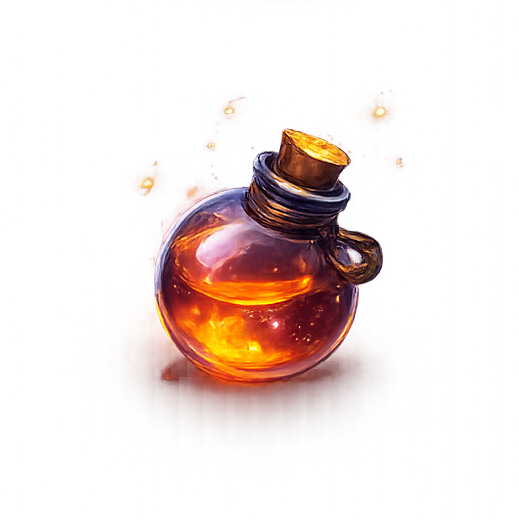
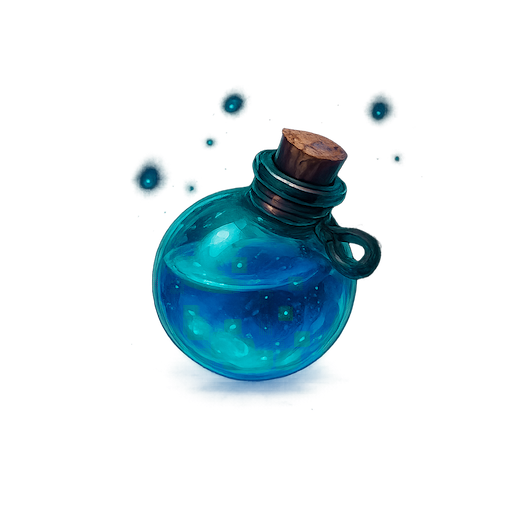
Rebalance artefact effects

diff --git a/src/utils/artefactEffects.test.ts b/src/utils/artefactEffects.test.ts
@@ -15,6 +15,7 @@ import {
   applyOutgoingDamageModifiers,
   applyOutgoingHealingModifiers,
   applyIncomingDamageModifiers,
+  getArmorGainMultiplier,
   getArtefactEffectDescription,
 } from './artefactEffects';
 import { initializeSoloGame } from './gameInitialization';
@@ -133,31 +134,67 @@ describe('artefactEffects', () => {
 
   describe('Tome effect - modifySegmentResultWithTome', () => {
     it('should not modify segment when Tome is not active', () => {
-      const segment = { segmentSize: 1, damage: 10, healing: 5, arcaneDust: 0, orderedCells: [], resolutionSteps: [] };
+      const segment = {
+        segmentSize: 1,
+        damage: 10,
+        healing: 5,
+        armor: 3,
+        arcaneDust: 0,
+        orderedCells: [],
+        resolutionSteps: [],
+      };
       const result = modifySegmentResultWithTome(segment, false);
       expect(result.damage).toBe(10);
       expect(result.healing).toBe(5);
+      expect(result.armor).toBe(3);
     });
 
     it('should multiply damage and healing by 10 for size-1 segments when Tome is active', () => {
-      const segment = { segmentSize: 1, damage: 10, healing: 5, arcaneDust: 0, orderedCells: [], resolutionSteps: [] };
+      const segment = {
+        segmentSize: 1,
+        damage: 10,
+        healing: 5,
+        armor: 4,
+        arcaneDust: 0,
+        orderedCells: [],
+        resolutionSteps: [],
+      };
       const result = modifySegmentResultWithTome(segment, true);
       expect(result.damage).toBe(100);
       expect(result.healing).toBe(50);
+      expect(result.armor).toBe(40);
     });
 
     it('should not modify segments larger than 1 even when Tome is active', () => {
-      const segment = { segmentSize: 2, damage: 10, healing: 5, arcaneDust: 0, orderedCells: [], resolutionSteps: [] };
+      const segment = {
+        segmentSize: 2,
+        damage: 10,
+        healing: 5,
+        armor: 2,
+        arcaneDust: 0,
+        orderedCells: [],
+        resolutionSteps: [],
+      };
       const result = modifySegmentResultWithTome(segment, true);
       expect(result.damage).toBe(10);
       expect(result.healing).toBe(5);
+      expect(result.armor).toBe(2);
     });
 
     it('should not modify size-3 segment when Tome is active', () => {
-      const segment = { segmentSize: 3, damage: 15, healing: 8, arcaneDust: 0, orderedCells: [], resolutionSteps: [] };
+      const segment = {
+        segmentSize: 3,
+        damage: 15,
+        healing: 8,
+        armor: 1,
+        arcaneDust: 0,
+        orderedCells: [],
+        resolutionSteps: [],
+      };
       const result = modifySegmentResultWithTome(segment, true);
       expect(result.damage).toBe(15);
       expect(result.healing).toBe(8);
+      expect(result.armor).toBe(1);
     });
   });
 
@@ -213,6 +250,38 @@ describe('artefactEffects', () => {
       const state = { ...initializeSoloGame(), activeArtefacts: ['potion'] as ArtefactId[] };
       expect(applyOutgoingHealingModifiers(5, 2, state)).toBe(5);
     });
+
+    it('should double healing when Rod is active', () => {
+      const state = { ...initializeSoloGame(), activeArtefacts: ['rod'] as ArtefactId[] };
+      expect(applyOutgoingHealingModifiers(5, 2, state)).toBe(10);
+    });
+  });
+
+  describe('getArmorGainMultiplier', () => {
+    it('should return 1 when no artefacts are active', () => {
+      const state = initializeSoloGame();
+      expect(getArmorGainMultiplier(2, state)).toBe(1);
+    });
+
+    it('should double armor when Potion is active', () => {
+      const state = { ...initializeSoloGame(), activeArtefacts: ['potion'] as ArtefactId[] };
+      expect(getArmorGainMultiplier(2, state)).toBe(2);
+    });
+
+    it('should apply Tome (10x) for size-1 segments', () => {
+      const state = { ...initializeSoloGame(), activeArtefacts: ['tome'] as ArtefactId[] };
+      expect(getArmorGainMultiplier(1, state)).toBe(10);
+    });
+
+    it('should stack Tome and Potion multipliers', () => {
+      const state = { ...initializeSoloGame(), activeArtefacts: ['tome', 'potion'] as ArtefactId[] };
+      expect(getArmorGainMultiplier(1, state)).toBe(20);
+    });
+
+    it('should include Rod healing bonus', () => {
+      const state = { ...initializeSoloGame(), activeArtefacts: ['rod'] as ArtefactId[] };
+      expect(getArmorGainMultiplier(2, state)).toBe(2);
+    });
   });
 
   describe('applyIncomingDamageModifiers - combined effects', () => {
@@ -256,12 +325,14 @@ describe('artefactEffects', () => {
       const desc = getArtefactEffectDescription('rod');
       expect(desc).toContain('damage taken');
       expect(desc).toContain('Rune Score');
+      expect(desc).toContain('healing');
     });
 
     it('should return description for Potion', () => {
       const desc = getArtefactEffectDescription('potion');
       expect(desc).toContain('Double');
       expect(desc).toContain('triple');
+      expect(desc).toContain('armor');
     });
 
     it('should return description for Robe', () => {
@@ -274,6 +345,7 @@ describe('artefactEffects', () => {
       const desc = getArtefactEffectDescription('tome');
       expect(desc).toContain('size 1');
       expect(desc).toContain('10×');
+      expect(desc).toContain('armor');
     });
   });
 });

diff --git a/src/utils/artefactEffects.ts b/src/utils/artefactEffects.ts
@@ -65,7 +65,7 @@ export function modifyDraftRarityWithRing(
  * Robe effect: Increase total picks by 1 during deck drafting
  */
 export function modifyDraftPicksWithRobe(basePicks: number, hasRobe: boolean): number {
-  return hasRobe ? basePicks + 1 : basePicks;
+  return hasRobe ? basePicks + 1 : basePicks; //TODO: This should let the pick an extra from the existing picks
 }
 
 /**
@@ -91,7 +91,7 @@ export function getDamageToScoreBonusWithRod(damage: number, hasRod: boolean): n
 }
 
 /**
- * Tome effect: Segments of size 1 deal 10× damage (rune score) and 10× healing
+ * Tome effect: Segments of size 1 deal 10× damage (rune score) and 10× healing and 10x armor
  */
 export function modifySegmentResultWithTome(
   segment: ResolvedSegment,
@@ -105,6 +105,7 @@ export function modifySegmentResultWithTome(
     ...segment,
     damage: segment.damage * 10,
     healing: segment.healing * 10,
+    armor: segment.armor * 10,
   };
 }
 
@@ -124,10 +125,10 @@ export function applyOutgoingDamageModifiers(
     damage = damage * 10;
   }
   
-  // Potion applies to final damage
-  if (hasArtefact(state, 'potion')) {
-    damage = damage * 2;
-  }
+  // // Potion applies to final damage
+  // if (hasArtefact(state, 'potion')) {
+  //   damage = damage * 2;
+  // }
   
   return damage;
 }
@@ -148,7 +149,19 @@ export function applyOutgoingHealingModifiers(
     healing = healing * 10;
   }
   
+  if (hasArtefact(state, 'rod')) {
+    healing = healing * 2;
+  }
   return healing;
+}
+
+/**
+ * Get the armor multiplier for resolved segments after artefact modifiers.
+ */
+export function getArmorGainMultiplier(segmentSize: number, state: GameState): number {
+  const healingMultiplier = applyOutgoingHealingModifiers(1, segmentSize, state);
+  const potionArmorMultiplier = 1;//hasArtefact(state, 'potion') ? 2 : 1;
+  return healingMultiplier * potionArmorMultiplier;
 }
 
 /**
@@ -161,14 +174,14 @@ export function applyIncomingDamageModifiers(
   state: GameState
 ): { damage: number; scoreBonus: number } {
   let damage = baseDamage;
-  
-  // Potion multiplies incoming damage
-  if (hasArtefact(state, 'potion')) {
-    damage = damage * 3;
-  }
+  console.log('Artefacts:', state.activeArtefacts);
+  // // Potion multiplies incoming damage
+  // if (hasArtefact(state, 'potion')) {
+  //   damage = damage * 3;
+  // }
   
   // Rod converts damage to score (uses post-Potion damage)
-  const scoreBonus = hasArtefact(state, 'rod') ? damage : 0;
+  const scoreBonus = 0;//hasArtefact(state, 'rod') ? damage : 0;
   
   return { damage, scoreBonus };
 }
@@ -179,10 +192,10 @@ export function applyIncomingDamageModifiers(
 export function getArtefactEffectDescription(artefactId: ArtefactId): string {
   const descriptions: Record<ArtefactId, string> = {
     ring: 'Double the odds of drafting epic runes',
-    rod: 'All damage taken is also added to Rune Score',
-    potion: 'Double all damage dealt, but triple all damage taken',
+    rod: 'Double all healing', //TODO Why two effects?
+    potion: 'Double all armor gained', //TODO: This should not double all armor or should it?
     robe: 'Increase total picks by 1 during deck drafting',
-    tome: 'Segments of size 1 deal 10× damage and 10× healing',
+    tome: 'Segments of size 1 add 10× more runescore, 10× healing, and 10× armor',
   };
   
   return descriptions[artefactId];

diff --git a/src/state/stores/gameplayStore.ts b/src/state/stores/gameplayStore.ts
@@ -11,7 +11,14 @@ import { copyRuneEffects, getRuneEffectsForType, getRuneRarity } from '../../uti
 import { createDeckDraftState, advanceDeckDraftState, mergeDeckWithRuneforge, applyDeckDraftEffectToPlayer } from '../../utils/deckDrafting';
 import { addArcaneDust, getArcaneDustReward } from '../../utils/arcaneDust';
 import { useArtefactStore } from './artefactStore';
-import { applyIncomingDamageModifiers, applyOutgoingDamageModifiers, applyOutgoingHealingModifiers, modifyDraftPicksWithRobe, hasArtefact } from '../../utils/artefactEffects';
+import {
+  applyIncomingDamageModifiers,
+  applyOutgoingDamageModifiers,
+  applyOutgoingHealingModifiers,
+  getArmorGainMultiplier,
+  modifyDraftPicksWithRobe,
+  hasArtefact,
+} from '../../utils/artefactEffects';
 import { saveSoloState, clearSoloState } from '../../utils/soloPersistence';
 import { findBestPatternLineForAutoPlacement } from '../../utils/patternLineHelpers';
 import { trackDefeatEvent, trackNewGameEvent } from '../../utils/mixpanel';
@@ -973,7 +980,7 @@ export const gameplayStoreConfig = (set: StoreApi<GameplayStore>['setState']): G
         const healingMultiplier = applyOutgoingHealingModifiers(1, resolvedSegment.segmentSize, state);
         const segmentDelay = getRuneResolutionDelayMs(resolvedSegment.segmentSize);
 
-        const armorMultiplier = healingMultiplier; // Armor benefits from the same modifiers as healing
+        const armorMultiplier = getArmorGainMultiplier(resolvedSegment.segmentSize, state);
         const segmentSteps = resolvedSegment.resolutionSteps.map((step) => ({
           row: step.cell.row,
           col: step.cell.col,

diff --git a/src/types/artefacts.ts b/src/types/artefacts.ts
@@ -26,22 +26,22 @@ export const MAX_SELECTED_ARTEFACTS = 5;
  * All available artefacts in the game
  */
 export const ARTEFACTS: Record<ArtefactId, Artefact> = {
+  potion: {
+    id: 'potion',
+    name: 'Frost Potion',
+    cost: 500,
+    image: potionPng,
+  },
   rod: {
     id: 'rod',
-    name: 'Rod of Retribution',
-    cost: 500,
-    image: rodPng,
-  },
-  robe: {
-    id: 'robe',
-    name: 'Weaver\'s Mantle',
+    name: 'Rod of Healing',
     cost: 1000,
-    image: robePng,
+    image: rodPng,
   },
   tome: {
     id: 'tome',
     name: 'Primer of Solitude',
-    cost: 2500,
+    cost: 2000,
     image: tomePng,
   },
   ring: {
@@ -50,11 +50,11 @@ export const ARTEFACTS: Record<ArtefactId, Artefact> = {
     cost: 5000,
     image: ringPng,
   },
-  potion: {
-    id: 'potion',
-    name: 'Berserker Potion',
-    cost: 50000,
-    image: potionPng,
+  robe: {
+    id: 'robe',
+    name: 'Weaver\'s Mantle',
+    cost: 10000,
+    image: robePng,
   },
 };
 
